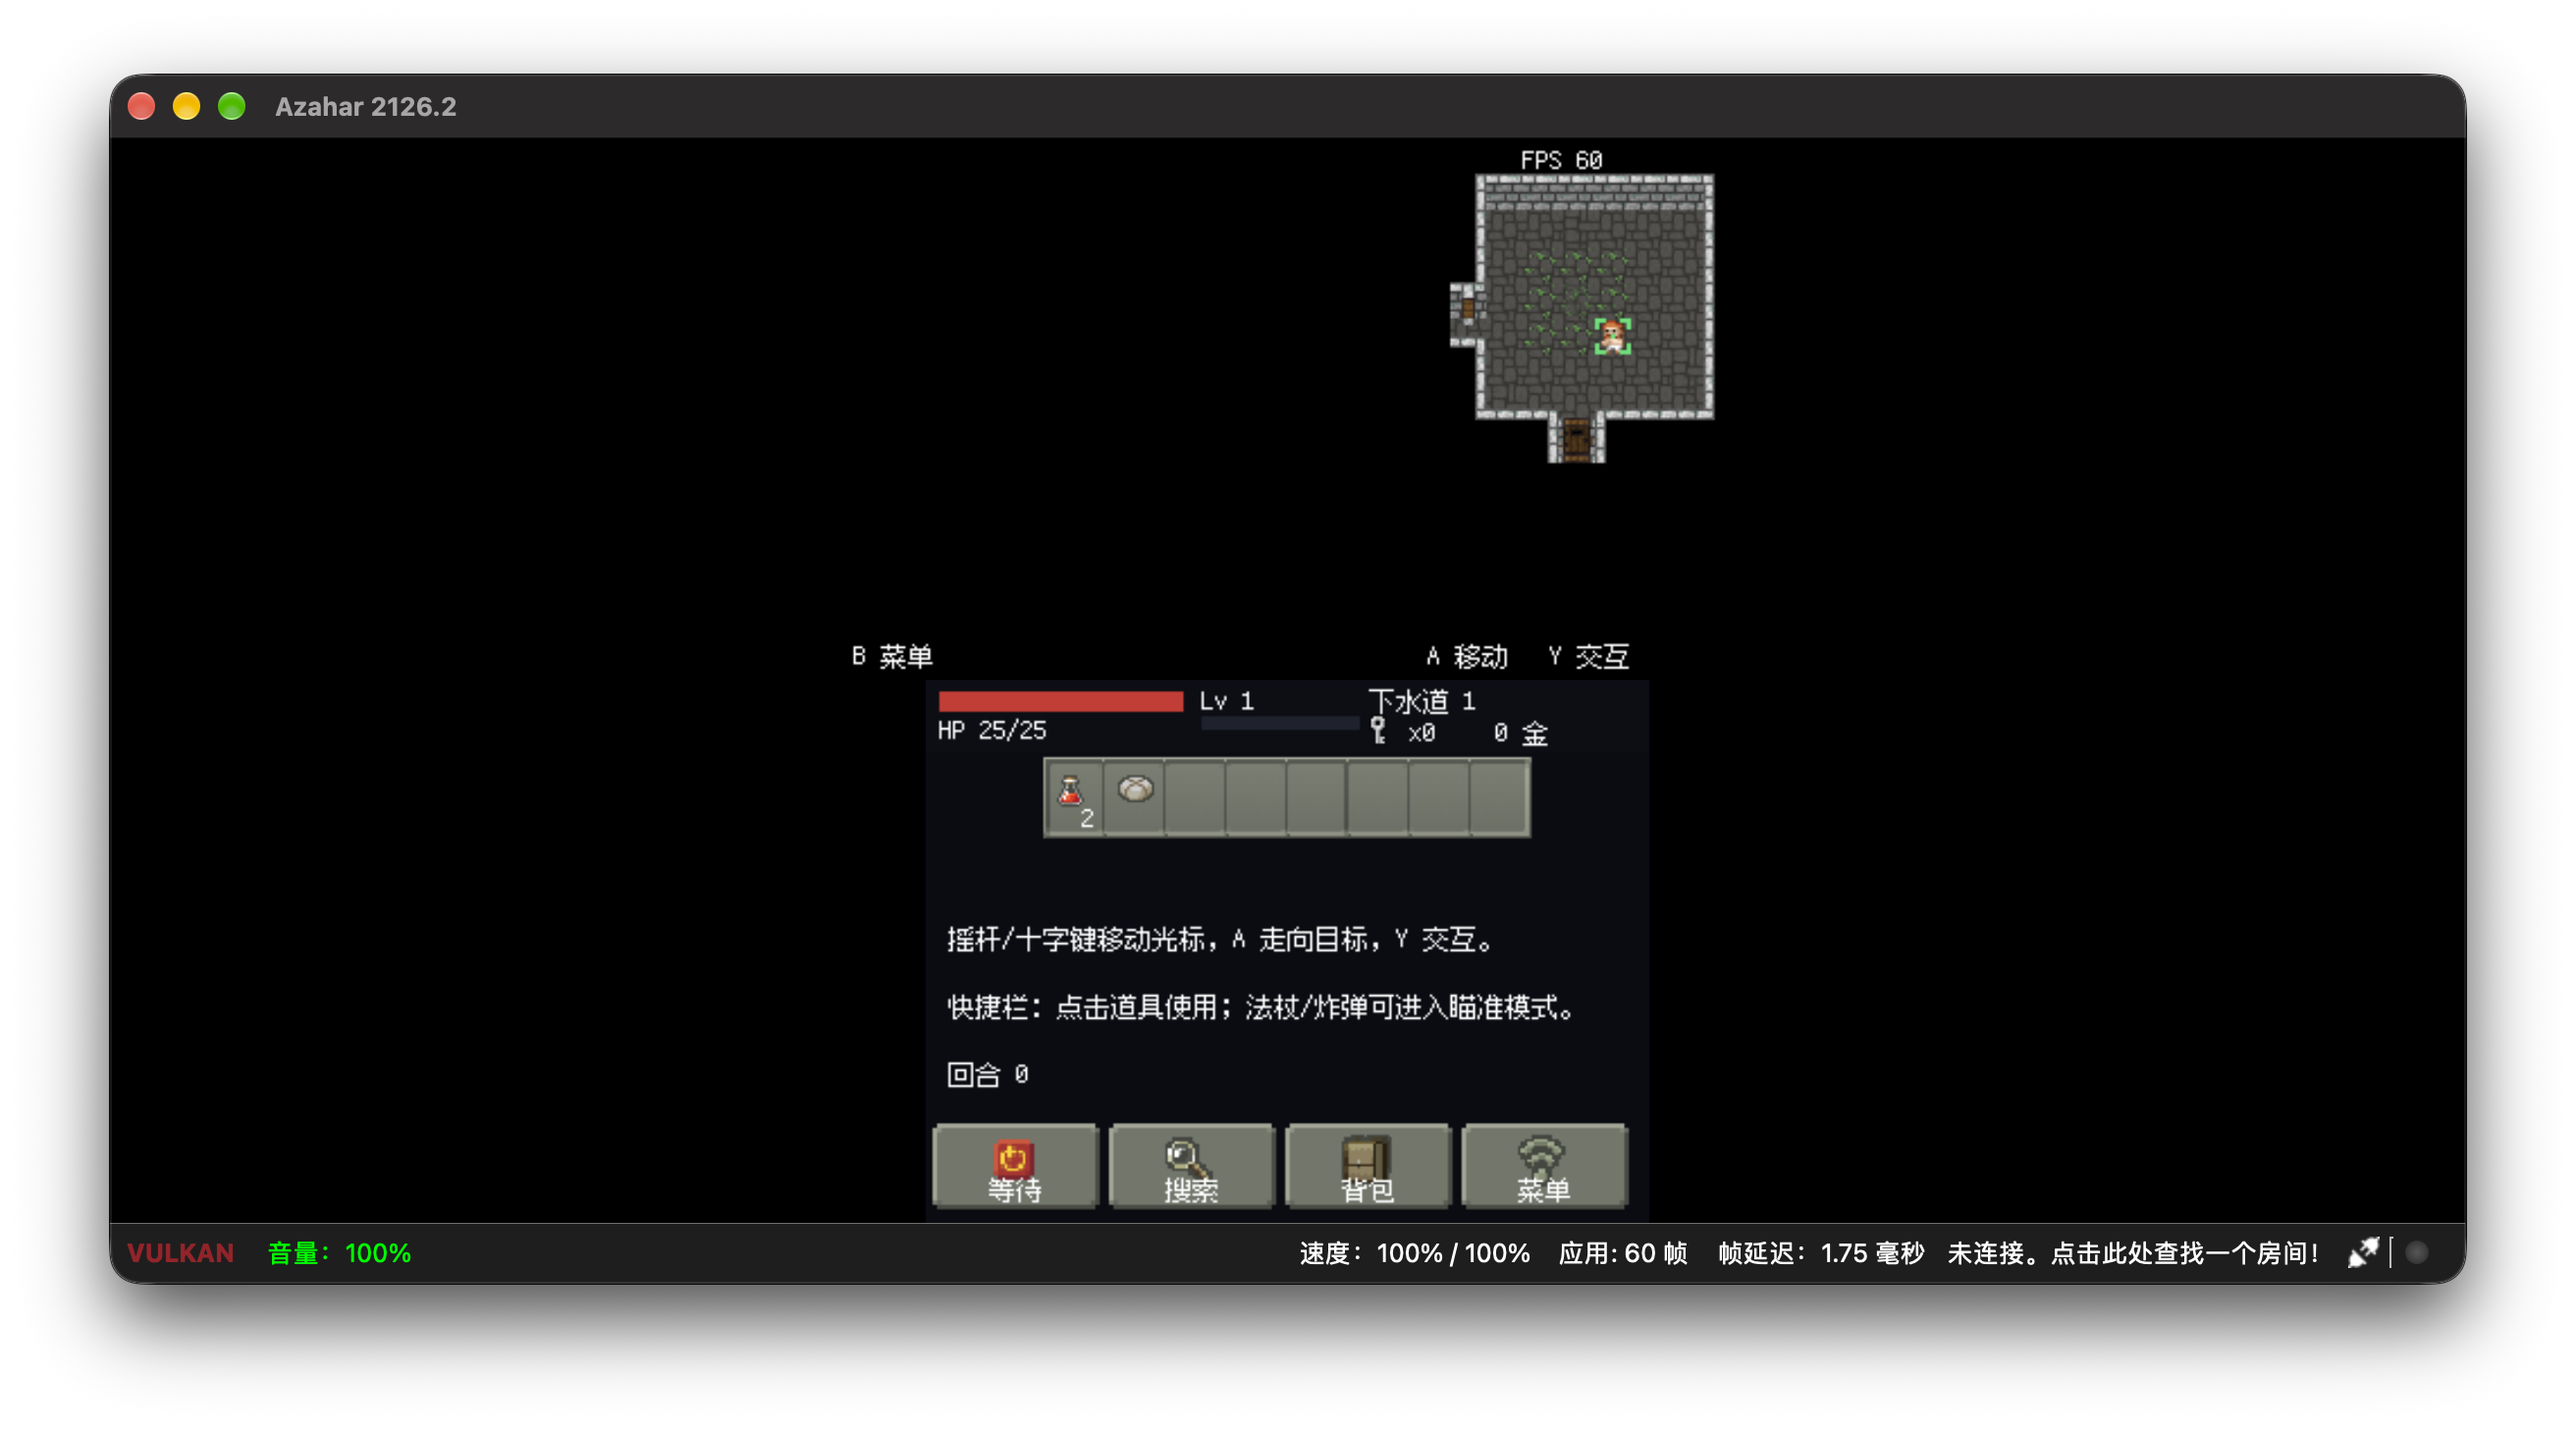
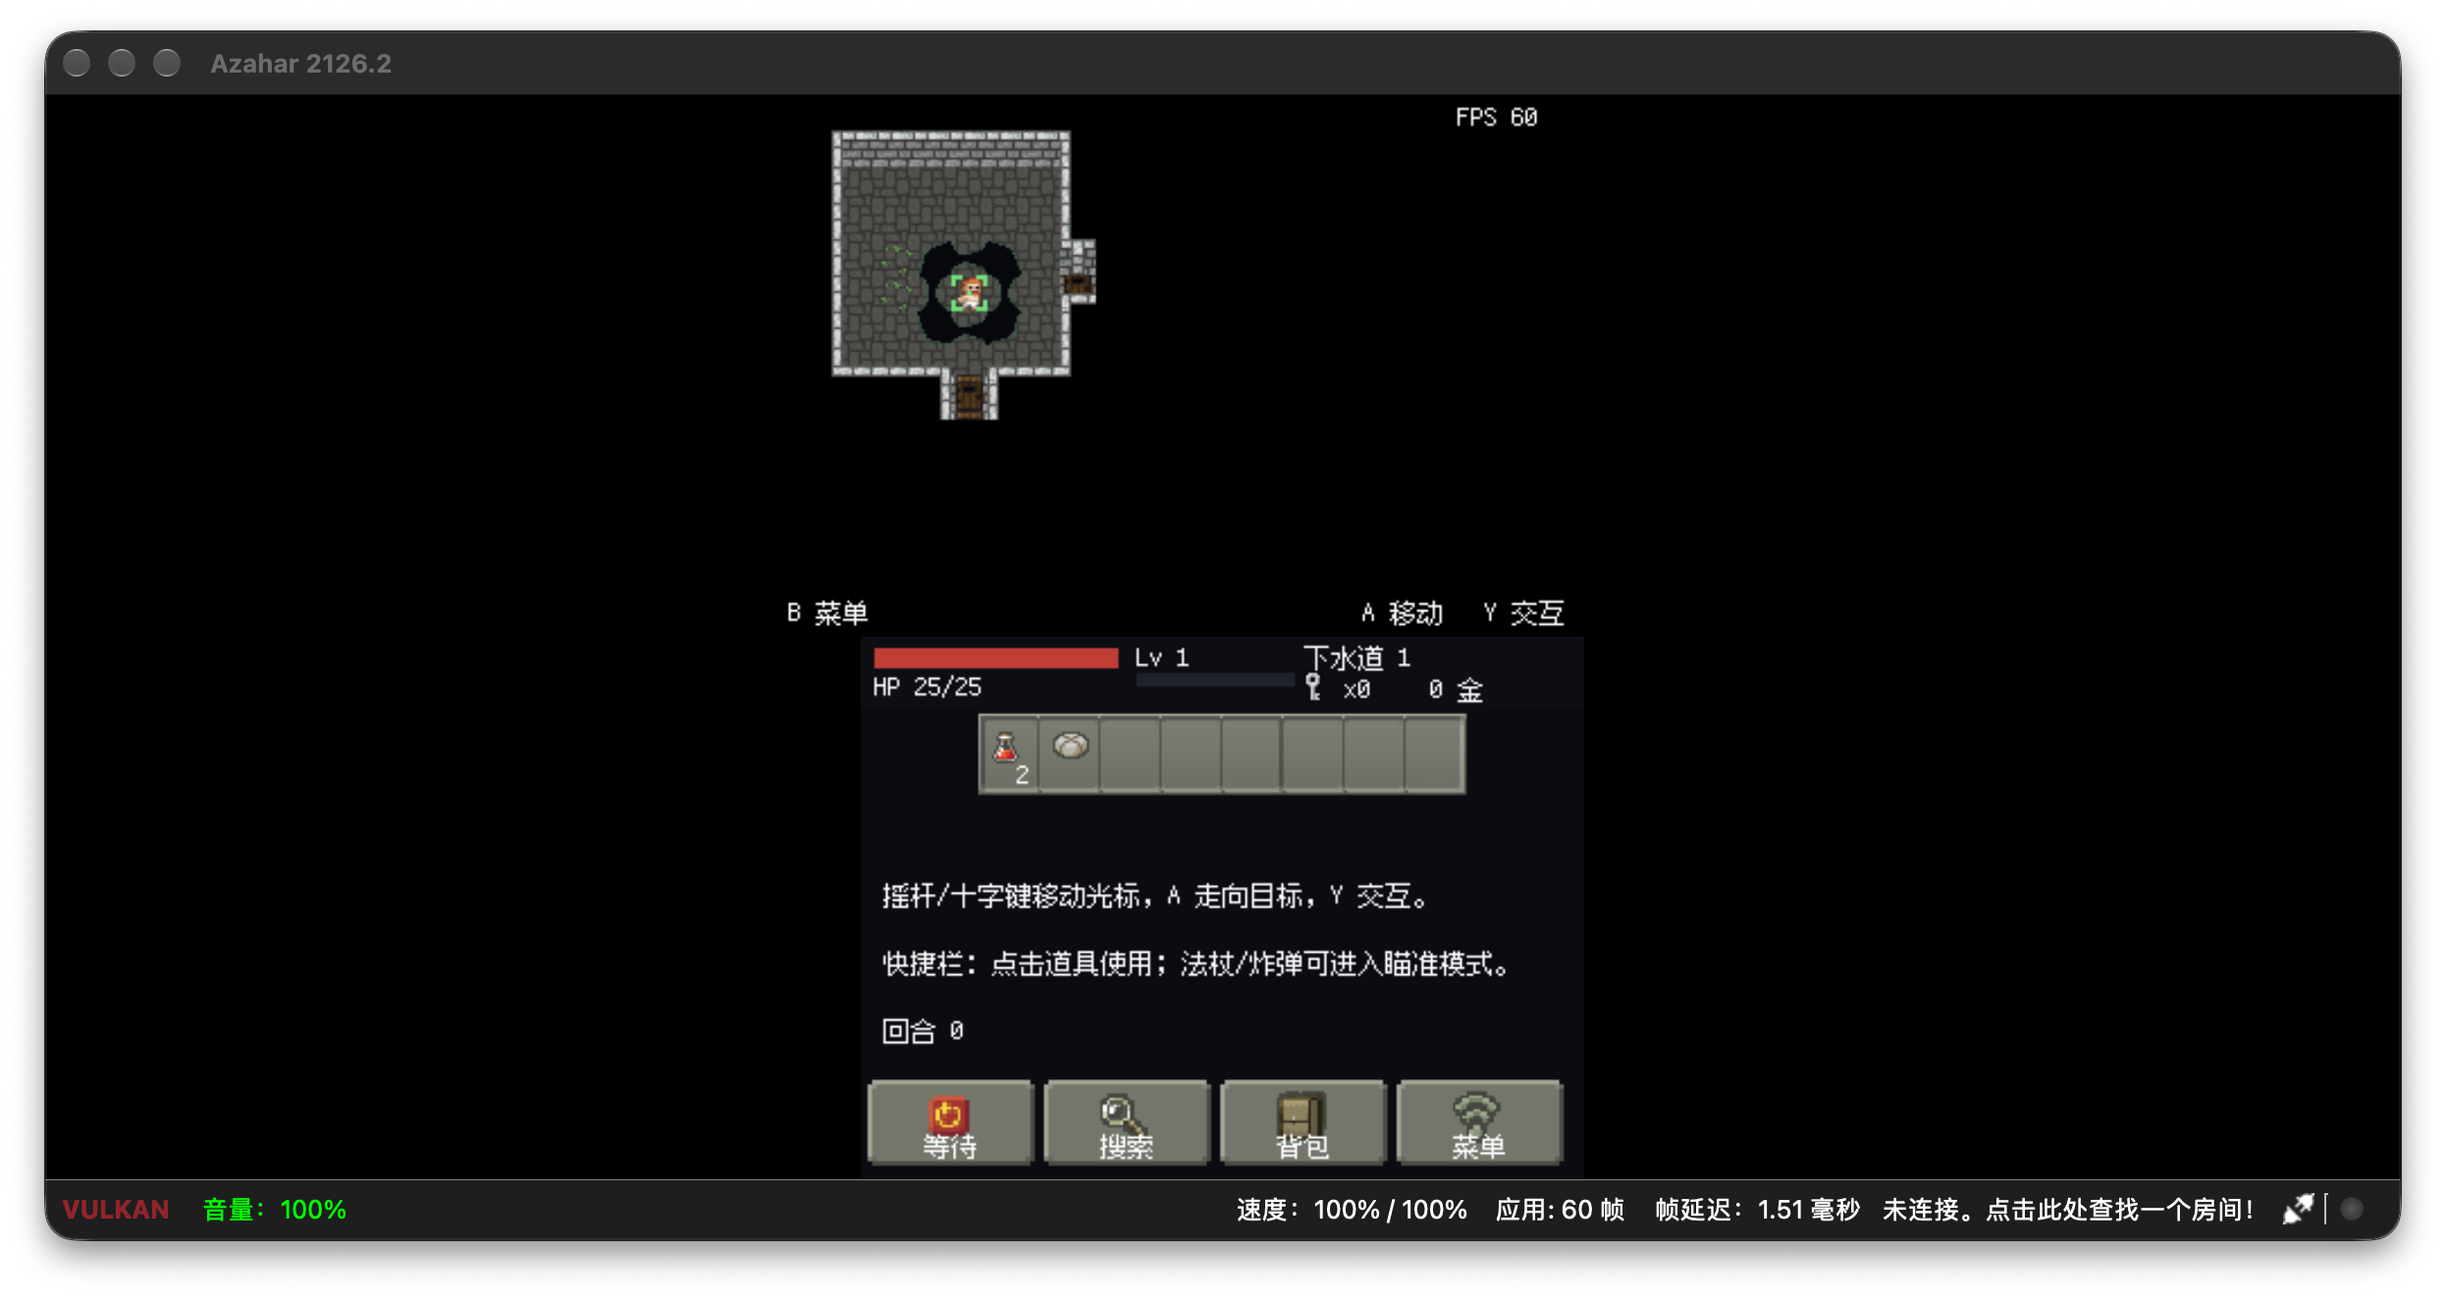
doors: use the complete 112/113/114 door material in all orientations
The 116 threshold + 227 wall lip showed a broken half-door on side walls.
Draw one complete standing door in the wall opening instead.

Changed region(s): [[0.0, 0.0, 0.9888, 0.9909], [0.309, 0.4335, 0.618, 0.6193], [0.618, 0.4335, 0.6489, 0.4955]]

diff --git a/source/game_screen.cpp b/source/game_screen.cpp
@@ -310,19 +310,10 @@ static void draw_map() {
         continue;
       uint32_t tint = 0;
       float tx = (float)(x * cell - camx), ty = (float)(y * cell - camy);
-      bool above_wall = (y > 0 && wall_like(G.tiles[y - 1][x]));
-      if (above_wall) {
-        // Door in a vertical wall: SPD passes the cell ABOVE to
-        // getRaisedDoorTile, which selects the sideways threshold.
-        draw_tile_world(A_tiles[G.region()], (116 % 16) * 16,
-                        (116 / 16) * 16, x * 16.0f, y * 16.0f, z, camx, camy,
-                        tint);
-      } else {
-        int idx = tt == T_DOOR_OPEN ? 113 : (tt == T_DOOR_LOCKED ? 114 : 112);
-        draw_tile_world(A_tiles[G.region()], (idx % 16) * 16,
-                        (idx / 16) * 16, x * 16.0f, y * 16.0f, z, camx, camy,
-                        tint);
-      }
+      int idx = tt == T_DOOR_OPEN ? 113 : (tt == T_DOOR_LOCKED ? 114 : 112);
+      draw_tile_world(A_tiles[G.region()], (idx % 16) * 16,
+                      (idx / 16) * 16, x * 16.0f, y * 16.0f, z, camx, camy,
+                      tint);
     }
   }
 
@@ -389,16 +380,7 @@ static void draw_map() {
       uint8_t below = (y + 1 < MH) ? G.tiles[y + 1][x] : T_WALL;
       uint32_t tint = 0;
       float tx = (float)(x * cell - camx), ty = (float)(y * cell - camy);
-      if (wall_like(tt) && (below == T_DOOR || below == T_DOOR_LOCKED ||
-                            below == T_DOOR_OPEN)) {
-        // Wall cell directly above a door: SPD's side-door face.
-        if (below == T_DOOR || below == T_DOOR_LOCKED) {
-          int di = below == T_DOOR_LOCKED ? 228 : 227;
-          draw_tile_world(A_tiles[G.region()], (di % 16) * 16,
-                          (di / 16) * 16, x * 16.0f, y * 16.0f, z, camx, camy,
-                          tint);
-        }
-      } else if (wall_like(tt) && wall_like(below)) {
+      if (wall_like(tt) && wall_like(below)) {
         // Wall top surface, stitched with neighbours (SPD stitchInternalWallTile).
         int right = (x + 1 < MW && wall_like(G.tiles[y][x + 1])) ? 1 : 0;
         int rb = (x + 1 < MW && y + 1 < MH && wall_like(G.tiles[y + 1][x + 1])) ? 1 : 0;

diff --git a/README.md b/README.md
@@ -403,9 +403,8 @@ Map tiles follow `DungeonTileSheet.java` instead of the old flat-wall look:
   The **bottom wall seen from inside a room** is the separate **overhang
   material** (`192..207`) drawn on the floor cell above the wall; nothing is
   rotated,
-- doors in horizontal walls use `112/113/114`; doors in vertical walls use the
-  separate **side-door** material (`116` threshold plus `227/228` above), also
-  no rotation,
+- doors use the complete standing door material `112/113/114` in every wall
+  orientation, placed in the wall opening (no rotation, no half-door overlay),
 - doors use the raised door frames (`112` closed / `113` open),
 - water uses the 16-way stitched tiles (`32..47`),
 - chests / locked chests / tombs use `ItemSpriteSheet` cells `36 / 37 / 34`,
